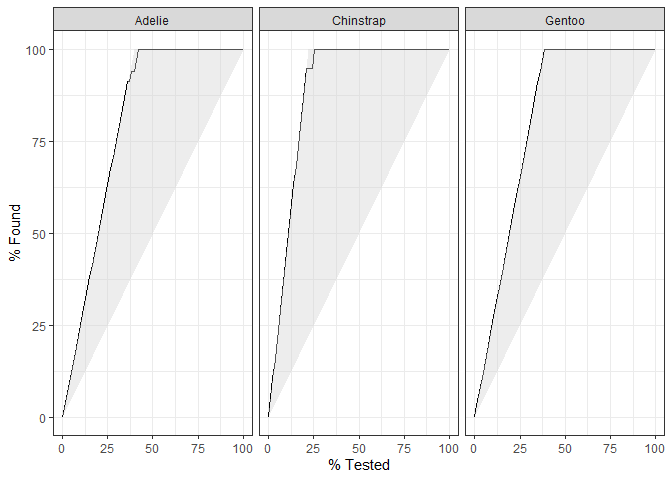
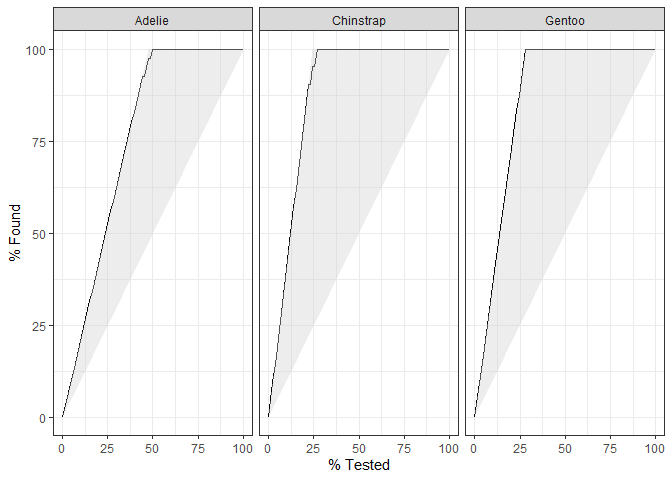
adding the full code session

Changed region(s): [[0.7812, 0.0938, 0.8125, 0.125], [0.4375, 0.1562, 0.4688, 0.1875], [0.1875, 0.1562, 0.2188, 0.1875]]

diff --git a/Rmd/tidymodels_classification_walkthrough.md b/Rmd/tidymodels_classification_walkthrough.md
@@ -134,7 +134,7 @@ penguins_model
     ## Target node size:                 10 
     ## Variable importance mode:         none 
     ## Splitrule:                        gini 
-    ## OOB prediction error (Brier s.):  0.01627613
+    ## OOB prediction error (Brier s.):  0.01761894
 
 (4) Prediction
 ==============
@@ -156,7 +156,7 @@ predict(penguins_model, penguins_test)
     ##  7 Adelie     
     ##  8 Adelie     
     ##  9 Adelie     
-    ## 10 Adelie     
+    ## 10 Chinstrap  
     ## # ... with 76 more rows
 
 (5) Evaluate Model Performance
@@ -178,12 +178,12 @@ head(penguins_pred)
     ## # A tibble: 6 x 13
     ##   species .pred_class .pred_Adelie .pred_Chinstrap .pred_Gentoo bill_length_mm
     ##   <fct>   <fct>              <dbl>           <dbl>        <dbl>          <dbl>
-    ## 1 Adelie  Adelie             1             0            0               -1.38 
-    ## 2 Adelie  Adelie             1             0            0               -0.911
-    ## 3 Adelie  Adelie             1             0            0               -1.11 
-    ## 4 Adelie  Adelie             0.994         0.006        0               -0.511
-    ## 5 Adelie  Adelie             0.991         0            0.00915         -0.602
-    ## 6 Adelie  Adelie             0.982         0.00927      0.00915         -0.620
+    ## 1 Adelie  Adelie             1              0           0               -0.844
+    ## 2 Adelie  Adelie             0.964          0.005       0.0306          -0.899
+    ## 3 Adelie  Adelie             1              0           0               -1.83 
+    ## 4 Adelie  Adelie             1              0           0               -1.78 
+    ## 5 Adelie  Adelie             0.990          0.0004      0.00923         -1.08 
+    ## 6 Adelie  Adelie             0.968          0.0297      0.0025          -0.661
     ## # ... with 7 more variables: bill_depth_mm <dbl>, flipper_length_mm <dbl>,
     ## #   body_mass_g <dbl>, year <ord>, island_Dream <dbl>, island_Torgersen <dbl>,
     ## #   sex_male <dbl>
@@ -197,8 +197,8 @@ penguins_pred %>%
     ## # A tibble: 2 x 3
     ##   .metric  .estimator .estimate
     ##   <chr>    <chr>          <dbl>
-    ## 1 accuracy multiclass     0.977
-    ## 2 kap      multiclass     0.964
+    ## 1 accuracy multiclass     0.965
+    ## 2 kap      multiclass     0.945
 
 ``` r
 # checking AUC metrics
@@ -209,7 +209,7 @@ penguins_pred %>%
     ## # A tibble: 1 x 3
     ##   .metric .estimator .estimate
     ##   <chr>   <chr>          <dbl>
-    ## 1 roc_auc hand_till      0.998
+    ## 1 roc_auc hand_till      0.999
 
 ``` r
 # plotting ROC curve
@@ -228,3 +228,83 @@ penguins_pred %>%
 ```
 
 ![](tidymodels_classification_walkthrough_files/figure-markdown_github/classEval-2.png)
+\# full code
+
+``` r
+# dataset
+
+# remotes::install_github("allisonhorst/palmerpenguins")
+library(palmerpenguins)
+library(skimr)
+skim(penguins)
+
+
+# tidymodel package to split datasets (tr/ts, CV,...)
+library(rsample) 
+
+# 1. train/test sets
+penguins_split <- rsample::initial_split(penguins)
+penguins_split
+
+
+# tidymodel package to specify a sequence of transformation steps
+library(recipes)
+
+# 2. transform/recipe
+penguins_rec <- penguins_split %>%   # origim dataset
+  training() %>%                     # training split
+  recipe(species ~ ., data=.) %>%    # recipe template
+  step_knnimpute(sex) %>%            # fill NA values of colum sex (factor)
+  step_knnimpute(all_numeric()) %>%  # fill NA values of all numerical vars
+  step_center(all_numeric()) %>%     # normalize to mean = 0
+  step_scale(all_numeric()) %>%      # normalize to sd = 1
+  step_mutate(year = factor(year, ordered=T)) %>%  # factor in to ordered
+  step_dummy(c(island, sex)) %>%    # one hot encoding island and sex factors vars
+  prep()                            # calculates recipe parameters
+
+# datasets
+penguins_test <- bake(penguins_rec, testing(penguins_split))
+penguins_train <- juice(penguins_rec)
+
+# tidymodel package the uniforms the machine learnings algorithm interface
+library(parsnip) # parsnip is the caret successor
+
+# 3. fit the model
+penguins_model <- rand_forest(trees = 100, mode="classification") %>% 
+  set_engine("ranger") %>% 
+  fit(species ~ ., data=penguins_train)
+
+penguins_model
+
+# 4. predict
+predict(penguins_model, penguins_test)
+
+# tidymodel package for measuring model performances
+library(yardstick)
+
+# 5. eval
+penguins_pred <- predict(penguins_model, penguins_test) %>%  # class outcome
+  bind_cols(predict(penguins_model, penguins_test, type = "prob")) %>% # class probs
+  bind_cols(penguins_test) %>% # true value
+  relocate(species, everything())
+
+head(penguins_pred)
+
+# metrics
+penguins_pred %>% 
+  metrics(truth=species, estimate=.pred_class)
+
+# checking AUC metrics
+penguins_pred %>% 
+  roc_auc(species, .pred_Adelie:.pred_Gentoo)
+
+# plotting ROC curve
+penguins_pred %>% 
+  roc_curve(species, .pred_Adelie:.pred_Gentoo) %>% 
+  tune::autoplot() # tune is a tidymodel package to find hyper-parameters
+
+# checking gain
+penguins_pred %>% 
+  gain_curve(species, .pred_Adelie:.pred_Gentoo) %>% 
+  tune::autoplot() # tune is a tidymodel package to find hyper-parameters
+```

diff --git a/README.md b/README.md
@@ -1,6 +1,6 @@
 # myTidymodels
 
-My personnal repo for learning to use the R Tidymodels package, having test scripts and reference guides.
+My personnel repo for learning to use the R Tidymodels package, having test scripts and reference guides.
 
 # Notebooks
 
